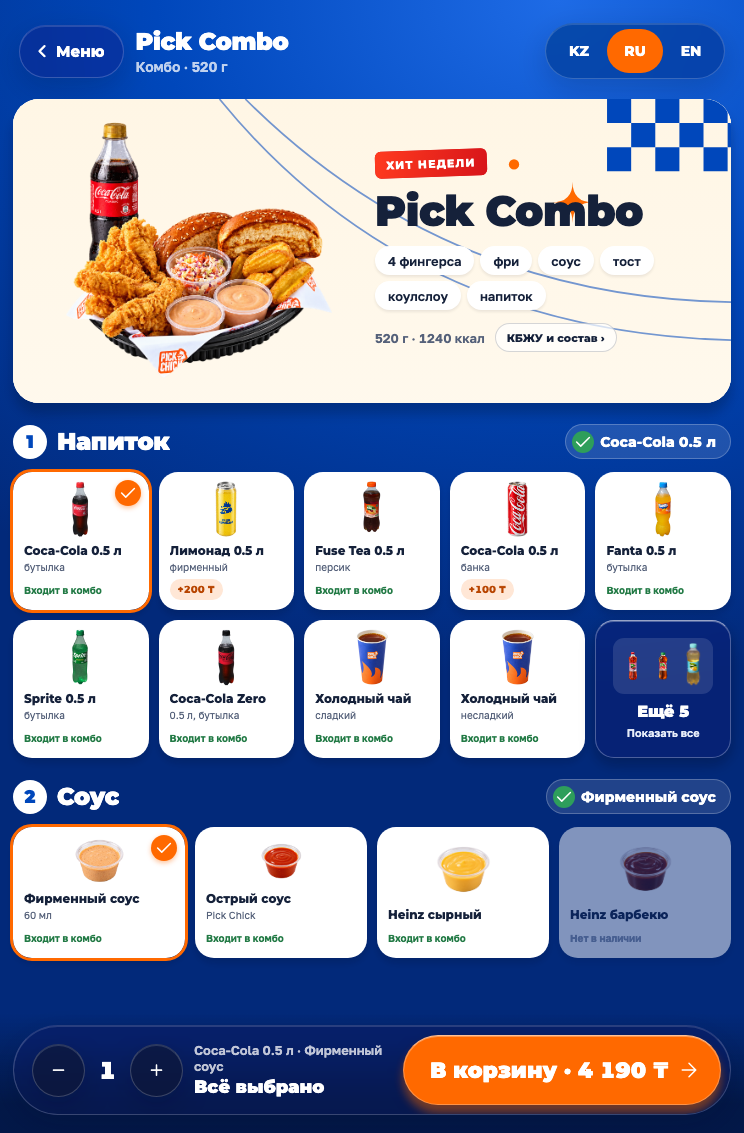
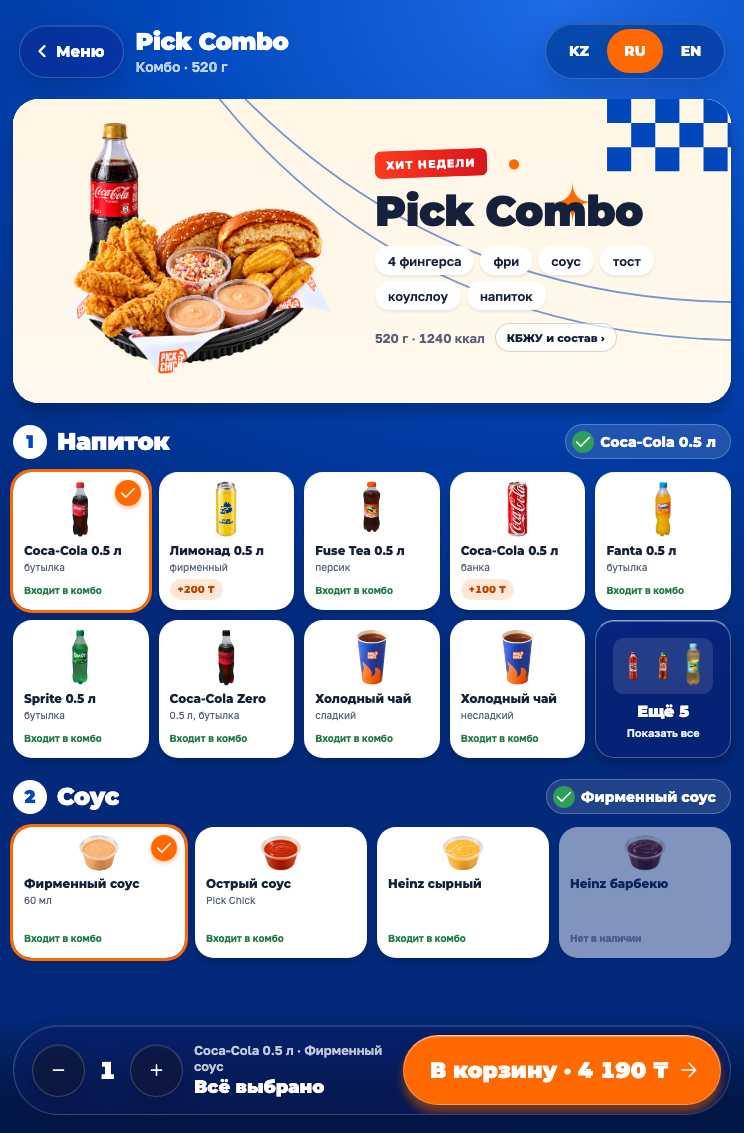
fix(kiosk): align sauce cup sizes across product photos

diff --git a/apps/kiosk/src/components/PhotoImage.tsx b/apps/kiosk/src/components/PhotoImage.tsx
@@ -1,7 +1,7 @@
 import { useState } from 'react';
 import { View } from 'react-native';
 import { Image } from 'expo-image';
-import { heroPhoto, optionPhoto, photoCandidates, productPhoto } from '../assets';
+import { heroPhoto, optionPhoto, photoCandidates, productPhoto, saucePhotoBounds } from '../assets';
 /**
  * A complete photograph (or the two Piko packs), within its owning component's stage.
  * A published remote photo comes first (disk-cached); if it cannot load, the bundled photo
@@ -27,8 +27,13 @@ export function PhotoImage({
   // Failures are remembered per photo, so a newly published photo starts at the remote source.
   const chainKey = `${imageId}:${variant}:${photo?.sha256 ?? ''}`;
   const [failed, setFailed] = useState({ key: '', count: 0 });
+  const [stage, setStage] = useState({ width: 0, height: 0 });
   const step = Math.min(failed.key === chainKey ? failed.count : 0, chain.length - 1);
   const sources = chain[step]!;
+  const cup = sources.length === 1 ? saucePhotoBounds(sources[0]!) : undefined;
+  // All four cups have the same visible width, centered by the food rather than the canvas.
+  // Preserve the photograph's proportions and leave room for the tallest cup (h/w < .9).
+  const cupSide = cup ? Math.min(stage.width * 0.9, stage.height / 0.9) / cup[2] : 0;
   const cover = variant === 'cart' && photo && !photo.cutout && /^#0/.test(photo.tile);
   return (
     <View
@@ -36,7 +41,8 @@ export function PhotoImage({
       pointerEvents="none"
       accessibilityElementsHidden
       importantForAccessibility="no-hide-descendants"
-      style={{ width: '100%', height: '100%', flexDirection: 'row' }}
+      onLayout={cup ? (event) => setStage(event.nativeEvent.layout) : undefined}
+      style={{ width: '100%', height: '100%', flexDirection: 'row', overflow: 'hidden' }}
     >
       {sources.map((source, index) => (
         <Image
@@ -56,7 +62,17 @@ export function PhotoImage({
             }))
           }
           contentFit={cover ? 'cover' : 'contain'}
-          style={{ width: sources.length === 2 ? '50%' : '100%', height: '100%' }}
+          style={
+            cup && cupSide > 0
+              ? {
+                  position: 'absolute',
+                  width: cupSide,
+                  height: cupSide,
+                  left: stage.width / 2 - cupSide * (cup[0] + cup[2] / 2),
+                  top: stage.height / 2 - cupSide * (cup[1] + cup[3] / 2),
+                }
+              : { width: sources.length === 2 ? '50%' : '100%', height: '100%' }
+          }
         />
       ))}
     </View>

diff --git a/apps/kiosk/src/assets.ts b/apps/kiosk/src/assets.ts
@@ -35,6 +35,15 @@ const photo = (source: number, tile: string | null): Photo => ({
   tile: tile ?? '#FEF8F0',
   cutout: tile === null,
 });
+// Visible cup bounds (alpha >= 64), independent of each PNG's transparent padding.
+// Match the bundled source, so a future published photo keeps its own framing.
+const sauceBounds = new Map<Photo['source'], readonly [number, number, number, number]>([
+  [require('../assets/v3/hd/signature-60.png'), [0.03429, 0.10048, 0.93222, 0.81659]],
+  [require('../assets/v3/hd/sauce-hot.png'), [0.11085, 0.17703, 0.77193, 0.66906]],
+  [require('../assets/v3/hd/heinz-cheese.png'), [0.11324, 0.17783, 0.77352, 0.66667]],
+  [require('../assets/v3/hd/heinz-bbq.png'), [0.1244, 0.18182, 0.75199, 0.64833]],
+]);
+export const saucePhotoBounds = (source: Photo['source']) => sauceBounds.get(source);
 const cards: Record<string, Photo> = {
   'i7.jpg': photo(require('../assets/v3/hd/pick-combo.png'), null),
   'i8.jpg': photo(require('../assets/v3/hd/master-combo.png'), null),

diff --git a/apps/kiosk/src/components/ComboOptionTile.tsx b/apps/kiosk/src/components/ComboOptionTile.tsx
@@ -159,7 +159,9 @@ export function ComboOptionTile({
           <OptionMark id={option.id} name={name} />
         )}
       </View>
-      <View style={{ gap: px(2), marginTop: px(6) }}>
+      <View
+        style={{ gap: px(2), marginTop: px(6), height: groupId === 'sauce' ? px(57) : undefined }}
+      >
         <Text
           {...fixedText}
           numberOfLines={2}

diff --git a/tests/kiosk/browser_glass_polish.py b/tests/kiosk/browser_glass_polish.py
@@ -9,6 +9,41 @@ from browser_redesign_upsell import SmartUpsell, FINGERS, SIZES
 
 
 class GlassPolish(SmartUpsell):
+    def test_sauce_cups_have_equal_visible_size(self):
+        for width, height in SIZES:
+            with self.subTest(width=width):
+                page, fixture = self.open(width, height)
+                self.start(page)
+                ui.element(page, 'kiosk-product-pick-combo').click()
+                ui.screen(page, 'product')
+                boxes = []
+                for sauce in ['pick', 'hot', 'cheese', 'bbq']:
+                    photo = ui.element(page, 'kiosk-photo-option-' + sauce)
+                    page.wait_for_function('''id => {
+                        const image = document.querySelector(`[data-testid="${id}"] img`);
+                        return image?.complete && image.naturalWidth > 0;
+                    }''', arg='kiosk-photo-option-' + sauce)
+                    boxes.append(photo.locator('img').evaluate('''image => {
+                        const canvas = document.createElement('canvas');
+                        canvas.width = image.naturalWidth; canvas.height = image.naturalHeight;
+                        const context = canvas.getContext('2d'); context.drawImage(image, 0, 0);
+                        const pixels = context.getImageData(0, 0, canvas.width, canvas.height).data;
+                        let left = canvas.width, right = 0, top = canvas.height, bottom = 0;
+                        for (let y = 0; y < canvas.height; y++) for (let x = 0; x < canvas.width; x++) {
+                            if (pixels[(y * canvas.width + x) * 4 + 3] < 64) continue;
+                            left = Math.min(left, x); right = Math.max(right, x + 1);
+                            top = Math.min(top, y); bottom = Math.max(bottom, y + 1);
+                        }
+                        const r = image.getBoundingClientRect(), scale = r.width / canvas.width;
+                        return {width: (right-left)*scale, height: (bottom-top)*scale,
+                            centerY: r.y + (top+bottom)/2*scale};
+                    }'''))
+                for key, tolerance in [('width', 1), ('height', 2), ('centerY', 1)]:
+                    values = [box[key] for box in boxes]
+                    self.assertLess(max(values) - min(values), tolerance, (key, boxes))
+                ui.capture(page, f'glass-equal-sauces-{width}.png')
+                self.assertEqual(len(fixture.orders), 0)
+
     def assert_no_help(self, page):
         expect(page.locator('[data-testid$="-help"]')).to_have_count(0)
         expect(page.get_by_role('button', name='Позвать сотрудника', exact=True)).to_have_count(0)
@@ -42,4 +77,7 @@ class GlassPolish(SmartUpsell):
 
 
 if __name__ == '__main__':
-    unittest.main(defaultTest='GlassPolish.test_photography_and_quantity_controls_on_three_ipads', verbosity=2)
+    unittest.main(defaultTest=[
+        'GlassPolish.test_photography_and_quantity_controls_on_three_ipads',
+        'GlassPolish.test_sauce_cups_have_equal_visible_size',
+    ], verbosity=2)

diff --git a/apps/kiosk/assets/v3/hd/README.md b/apps/kiosk/assets/v3/hd/README.md
@@ -10,6 +10,8 @@ the selected existing catalog size; no prices, nutrition or catalog entries were
 respective sauce contents. They do not claim to photograph Heinz retail packaging.
 `sauce-hot.png` matches the same elevated three-quarter camera angle and cup framing,
 as requested by the owner. Its spicy red-orange contents are preserved.
+The shared photo renderer aligns the visible cup bounds and scale, ignoring transparent
+padding. Sauce options reserve equal photo/text space; image proportions are preserved.
 
 Sources, pixel dimensions and SHA-256 values are in `provenance.json`. Outputs have at least
 1200 pixels on their long side. Existing owner-supplied bottled-drink photographs remain in
